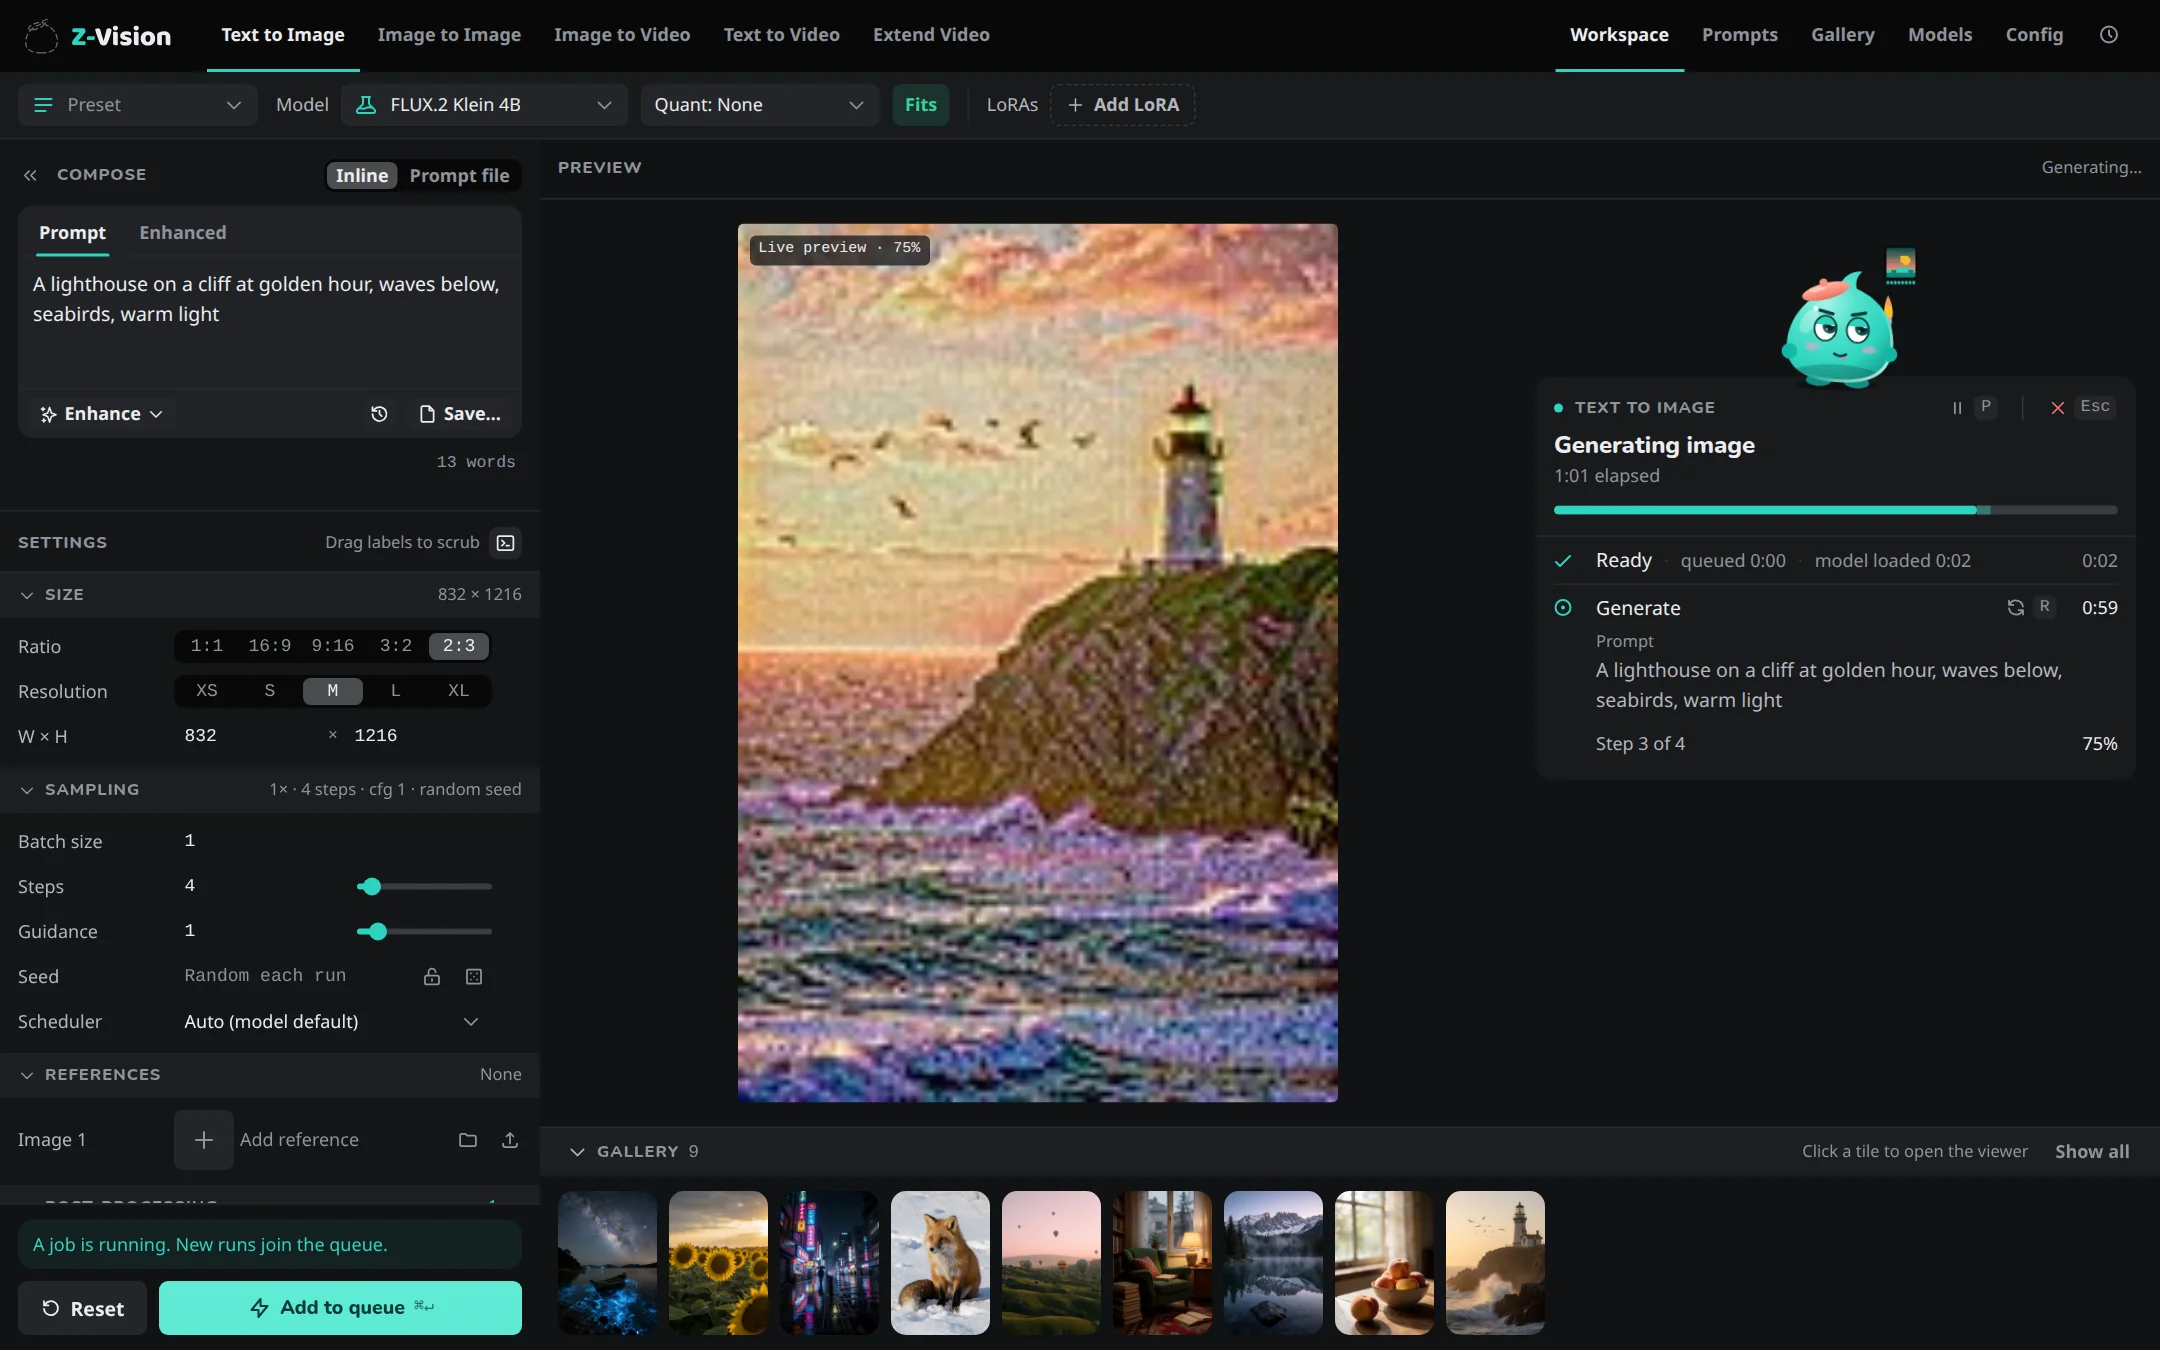
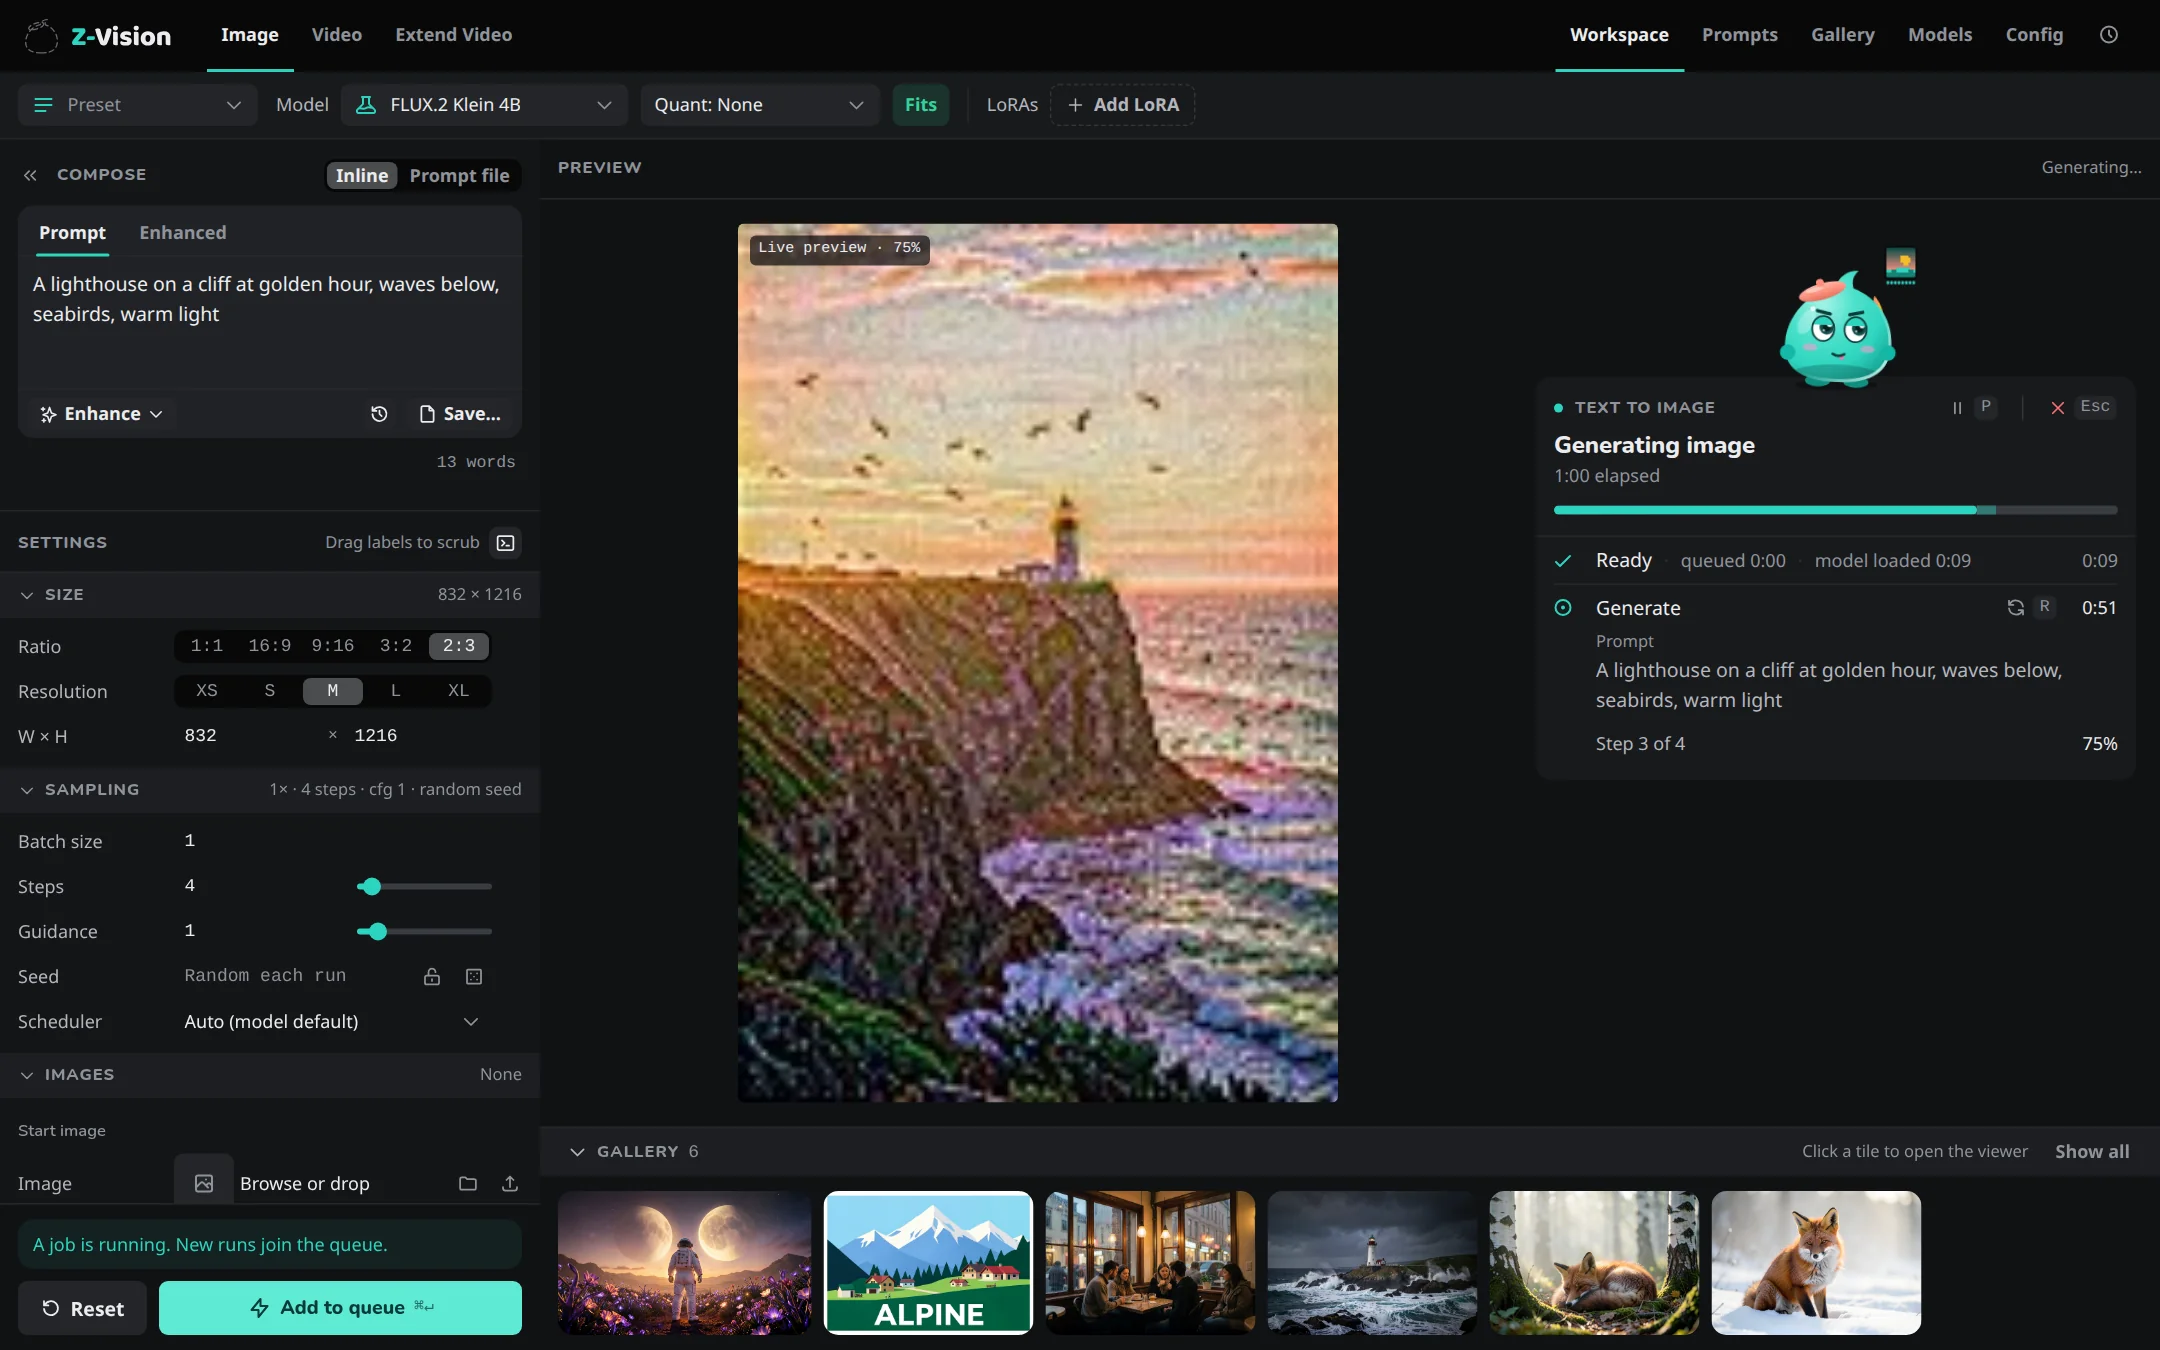
docs: retake the screenshots from a stored demo set
- Retake all 12 screenshots with the Image, Video and Extend Video tabs and the Images section
- Keep the demo images, prompt file and config in scripts/docs_demo, outside the published site and the source package
- The guide seeds the throwaway data folder from the stored set; the job shots start from an empty job log

diff --git a/scripts/docs_screenshots.py b/scripts/docs_screenshots.py
@@ -24,7 +24,7 @@ _DESKTOP = {"width": 1440, "height": 900}
 _PHONE = {"width": 390, "height": 844}
 _SCALE = 1.5
 # The newest output: the image the Workspace and viewer shots show. Generated with the enhancer for the docs.
-_HERO = "web_2026-10-30_21-58-33.png"
+_HERO = "prompt_2026-10-31_13-32-30.png"
 _DEMO_PROMPT_FILE = "/var/tmp/ziv-docs/data/prompts/demo.yaml"
 
 
@@ -63,6 +63,12 @@ def _output_ids(url: str) -> set[str]:
         return {asset["id"] for asset in json.load(response).get("assets", [])}
 
 
+def _clear_job_log(url: str) -> None:
+    """Empty the job log through the app, so the Job log shot shows only the jobs these shots run."""
+    request = urllib.request.Request(f"{url}/api/jobs/log", method="DELETE", headers={"Origin": url})
+    urllib.request.urlopen(request).read()
+
+
 def _post_json(url: str, body: dict) -> None:
     """POST *body* to *url* as JSON, ignoring a conflict for something that already exists."""
     request = urllib.request.Request(url, data=json.dumps(body).encode(), method="POST", headers={"Content-Type": "application/json", "Origin": url.split("/api/")[0]})
@@ -83,6 +89,7 @@ async def _dismiss_toasts(page: Page) -> None:
 async def shot_job_running(browser: Browser, url: str) -> None:
     """Start a job and capture it at 75%: the live preview beside the job card, and the card alone."""
     before = _output_ids(url)
+    _clear_job_log(url)
     page = await _page(browser, url)
     await page.get_by_placeholder("Describe the scene...").fill("A lighthouse on a cliff at golden hour, waves below, seabirds, warm light")
     await page.get_by_role("button", name="Generate").last.click()
@@ -168,6 +175,9 @@ async def shot_preset_menu(browser: Browser, url: str) -> None:
 async def shot_phone_workspace(browser: Browser, url: str) -> None:
     page = await _page(browser, url, phone=True)
     await page.wait_for_timeout(1500)
+    # The strip scrolls sideways; bring the Images chip into view.
+    await page.locator('[data-testid="settings-strip"] .setchip[aria-label^="Images"]').scroll_into_view_if_needed()
+    await page.wait_for_timeout(500)
     _save(await page.screenshot(), "phone-workspace")
 
 

diff --git a/docs/developer/docs.md b/docs/developer/docs.md
@@ -56,8 +56,18 @@ export ZIV_DATA_DIR=/var/tmp/ziv-docs/data HF_HOME=/var/tmp/ziv-docs/hf HF_HUB_C
 ziv ui --port 8790 --no-browser
 ```
 
-- **Models:** download FLUX.2 Klein 4B and the Fast enhancer from its Models page, and set `ui.default_models.image: klein4b` in its `config.yaml`.
-- **Content:** generate demo images with the app into its output folder, and put a demo prompt file at `prompts/demo.yaml` in its data folder. Make one striking image with the enhancer and keep it the newest output; it is the hero the Workspace, viewer and Home shots show. Its file name is `_HERO` in the script.
+- **Models:** download FLUX.2 Klein 4B and the Fast enhancer from its Models page. The seeded `config.yaml` sets `ui.default_models.image: klein4b`.
+- **Content:** seed the data folder from the stored demo set in `scripts/docs_demo/`, which sits outside `docs/` so the site doesn't publish it. It holds the config, the demo prompt file and six demo images with their metadata. The Gallery sorts by modification time, which version control doesn't keep, so touch the images oldest first to make the hero (`_HERO` in the script) the newest:
+
+  ```bash
+  mkdir -p "$ZIV_DATA_DIR/outputs" "$ZIV_DATA_DIR/prompts"
+  cp scripts/docs_demo/config.yaml "$ZIV_DATA_DIR/"
+  cp scripts/docs_demo/prompts/demo.yaml "$ZIV_DATA_DIR/prompts/"
+  cp scripts/docs_demo/outputs/*.png "$ZIV_DATA_DIR/outputs/"
+  for f in $(ls scripts/docs_demo/outputs | sort -t_ -k2); do touch "$ZIV_DATA_DIR/outputs/$f"; sleep 1; done
+  ```
+
+  Generate new demo content with the app only when the set should change, and copy the result back into `scripts/docs_demo/`. Make one striking image with the enhancer and keep it the newest output; it is the hero the Workspace, viewer and Home shots show.
 - **Browser:** the script opens a fresh browser profile for every shot, so no settings or recent paths carry over.
 - **Check before you capture:** open the Web UI and look at the Config and Models pages for anything that isn't demo content.
 
@@ -70,7 +80,7 @@ make docs-screenshots URL=http://localhost:8790 EMPTY_URL=http://localhost:8791
 make docs-screenshots URL=http://localhost:8790 ONLY=gallery-page,viewer-details
 ```
 
-Each shot writes `docs/assets/screenshots/<name>.webp` at 1.5× pixel density. The job shots run real jobs, and delete their outputs afterwards so the hero stays the newest image. Look at every shot before you commit it.
+Each shot writes `docs/assets/screenshots/<name>.webp` at 1.5× pixel density. The job shots run real jobs. They start from an empty job log and delete their outputs afterwards, so the log shows only their jobs and the hero stays the newest image. Look at every shot before you commit it.
 
 Shots crop to the part being explained (the job card, the Job log, the Preset menu) where they can, so a change elsewhere doesn't make them wrong.
 
